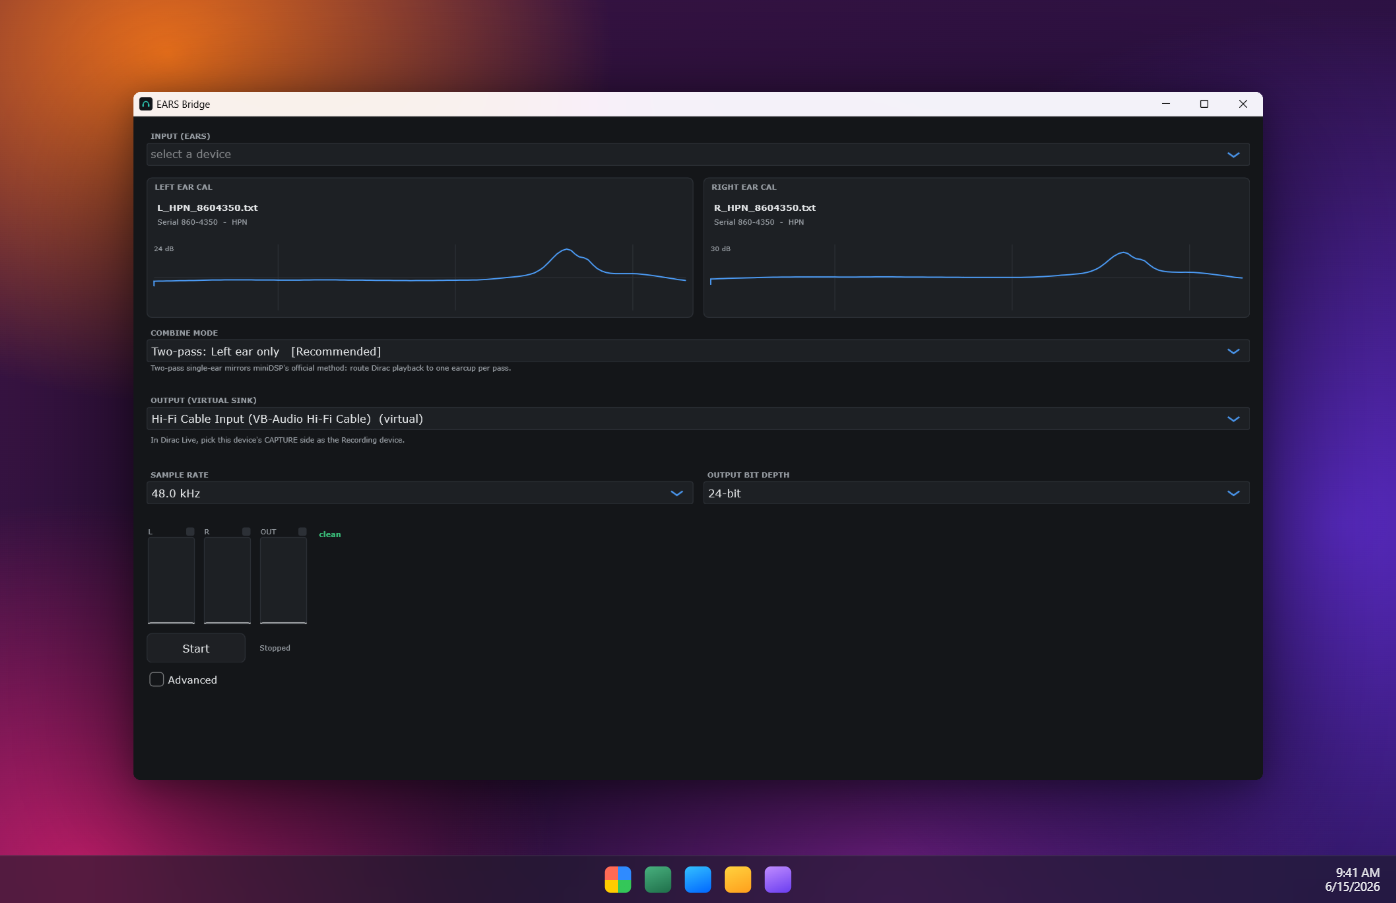
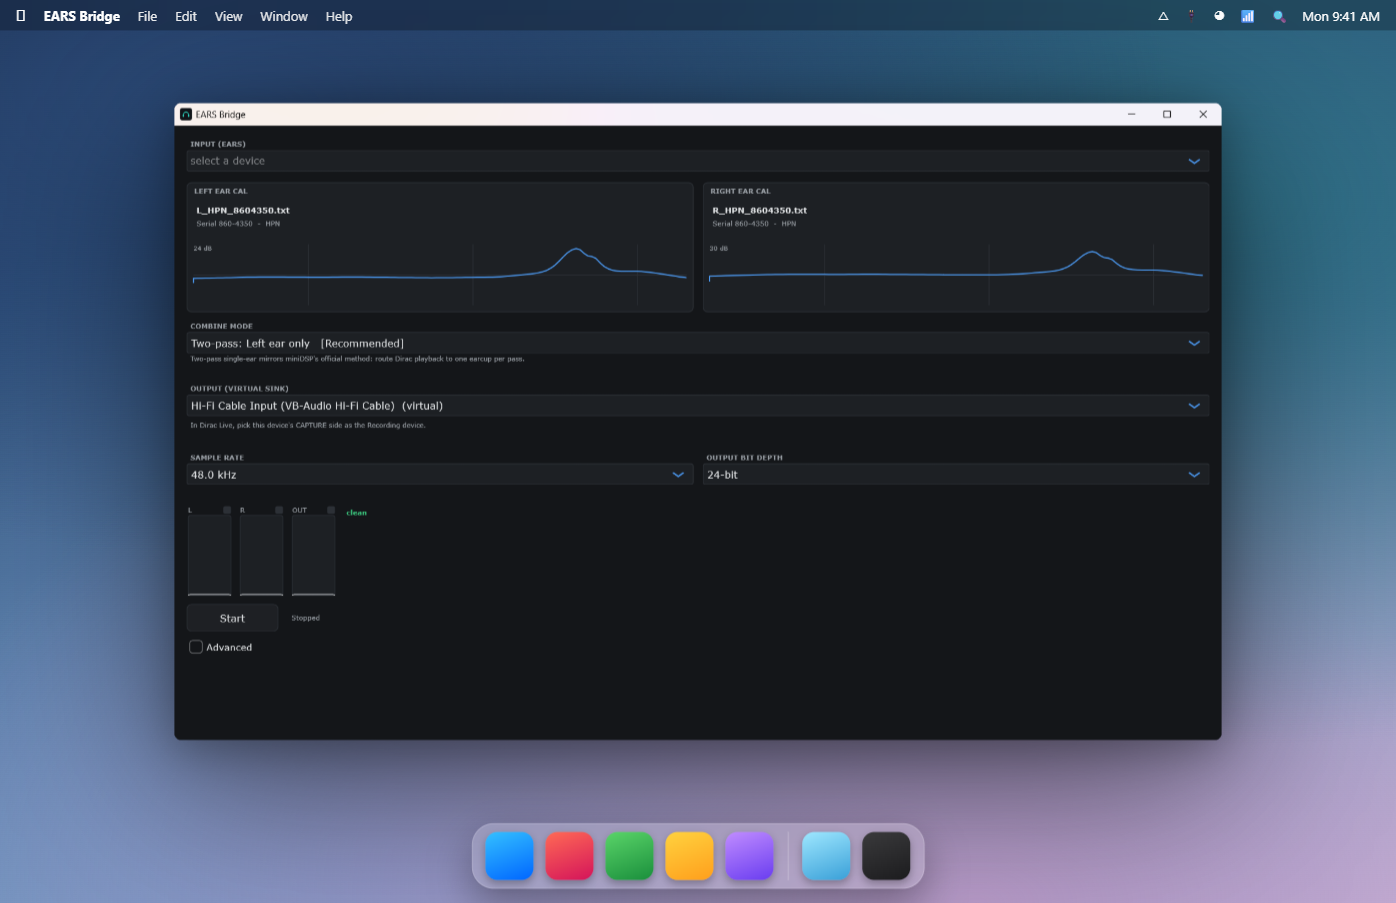
site: put both before/after windows on one shared macOS desktop
Drop the black background around the after window (cropped to the window
with rounded-corner alpha). Both scenes now share an identical macOS desktop
- same wallpaper, menu bar, and dock - so only the floating app window
changes across the wipe (original dense app -> macOS HIG redesign).

diff --git a/docs/mockups/scene-before.html b/docs/mockups/scene-before.html
@@ -2,36 +2,48 @@
 <style>
   *{ box-sizing:border-box; margin:0; padding:0; }
   html,body{ width:1396px; height:903px; overflow:hidden;
-    font-family:"Segoe UI",-apple-system,Roboto,sans-serif; }
-  /* vibrant sunset/bloom wallpaper sampled from the real Windows desktop */
+    font-family:-apple-system,"SF Pro Text","Segoe UI",system-ui,Roboto,sans-serif; }
+  /* shared macOS desktop wallpaper (identical to the after scene) */
   body{ position:relative;
     background:
-      radial-gradient(58% 70% at 12% 6%, rgba(255,122,24,.92), transparent 55%),
-      radial-gradient(60% 72% at 6% 96%, rgba(206,30,108,.88), transparent 56%),
-      radial-gradient(70% 95% at 96% 58%, rgba(96,46,214,.85), transparent 60%),
-      radial-gradient(55% 60% at 64% 96%, rgba(150,40,170,.7), transparent 58%),
-      linear-gradient(135deg,#3a1340 0%,#241046 100%); }
-  .bloom{ position:absolute; inset:0; pointer-events:none;
-    background:radial-gradient(40% 14% at 50% 42%, rgba(255,255,255,.14), transparent 72%);
-    filter:blur(3px); }
-  /* the real Windows app, floating as a window */
-  .winimg{ position:absolute; left:50%; top:92px; transform:translateX(-50%); width:1130px; height:auto;
-    filter:drop-shadow(0 34px 66px rgba(0,0,0,.52)) drop-shadow(0 6px 16px rgba(0,0,0,.4)); }
-  /* Windows 11 taskbar */
-  .taskbar{ position:absolute; left:0; right:0; bottom:0; height:48px; display:flex; align-items:center;
-    justify-content:center; gap:14px; background:rgba(28,26,42,.6);
-    -webkit-backdrop-filter:blur(22px); backdrop-filter:blur(22px); border-top:1px solid rgba(255,255,255,.08); }
-  .taskbar i{ width:26px; height:26px; border-radius:6px; display:block; }
-  .tb-start{ background:conic-gradient(from 0deg,#2f8bff,#2f8bff 90deg,#34c759 90deg,#34c759 180deg,#ffcc00 180deg,#ffcc00 270deg,#ff6a55 270deg); }
-  .tb1{ background:linear-gradient(160deg,#48b07e,#1f6f4a); } .tb2{ background:linear-gradient(160deg,#34c0ff,#0066ff); }
-  .tb3{ background:linear-gradient(160deg,#ffd23f,#ff9f1c); } .tb4{ background:linear-gradient(160deg,#c08cff,#6a3df0); }
-  .taskbar .clock{ position:absolute; right:16px; color:#ececf0; font-size:12px; text-align:right; line-height:1.25; }
+      radial-gradient(120% 90% at 18% 12%, #2b4a78 0%, transparent 55%),
+      radial-gradient(120% 110% at 88% 22%, #2f6f86 0%, transparent 55%),
+      radial-gradient(130% 120% at 70% 100%, #b89bc9 0%, transparent 60%),
+      radial-gradient(120% 120% at 30% 95%, #6f8fc2 0%, transparent 60%),
+      linear-gradient(165deg,#16243f 0%,#27466e 22%,#395f86 45%,#7fa6c4 78%,#cdbcd8 100%);
+    background-color:#27466e; }
+  .menubar{ position:absolute; top:0; left:0; right:0; height:30px; display:flex; align-items:center;
+    gap:18px; padding:0 16px; color:#fff; font-size:13px; font-weight:500;
+    background:rgba(0,0,0,.26); -webkit-backdrop-filter:blur(18px); backdrop-filter:blur(18px); }
+  .menubar .apple{ font-size:15px; }
+  .menubar .app{ font-weight:700; }
+  .menubar .mi{ font-weight:400; opacity:.92; }
+  .menubar .right{ margin-left:auto; display:flex; align-items:center; gap:14px; font-weight:400; }
+  .menubar .right .clock{ font-variant-numeric:tabular-nums; }
+  .stage{ position:absolute; left:0; right:0; top:30px; bottom:90px; display:flex; align-items:center; justify-content:center; }
+  .stage img{ display:block; max-width:75%; max-height:87%; width:auto; height:auto;
+    filter:drop-shadow(0 38px 80px rgba(0,0,0,.46)) drop-shadow(0 8px 22px rgba(0,0,0,.34)); }
+  .dock{ position:absolute; left:50%; bottom:14px; transform:translateX(-50%);
+    display:flex; align-items:flex-end; gap:12px; padding:9px 14px; border-radius:22px;
+    background:rgba(255,255,255,.18); -webkit-backdrop-filter:blur(26px); backdrop-filter:blur(26px);
+    box-shadow:0 16px 40px rgba(0,0,0,.34), inset 0 0 0 1px rgba(255,255,255,.16); }
+  .dock i{ width:48px; height:48px; border-radius:12px; display:block; box-shadow:0 4px 8px rgba(0,0,0,.28); }
+  .dock .sep{ width:1px; height:48px; background:rgba(255,255,255,.3); box-shadow:none; border-radius:0; margin:0 2px; }
+  .i1{ background:linear-gradient(160deg,#34c0ff,#0066ff); } .i2{ background:linear-gradient(160deg,#ff6a55,#d4145a); }
+  .i3{ background:linear-gradient(160deg,#5ad469,#1a8f3c); } .i4{ background:linear-gradient(160deg,#ffd23f,#ff9f1c); }
+  .i5{ background:linear-gradient(160deg,#c08cff,#6a3df0); } .i6{ background:linear-gradient(160deg,#3a3a3c,#1c1c1e); }
+  .i7{ background:linear-gradient(160deg,#9ee7ff,#3aa0d8); }
 </style></head>
 <body>
-  <div class="bloom"></div>
-  <img class="winimg" src="before-window.png" alt="EARS Bridge — the original Windows app">
-  <div class="taskbar">
-    <i class="tb-start"></i><i class="tb1"></i><i class="tb2"></i><i class="tb3"></i><i class="tb4"></i>
-    <span class="clock">9:41 AM<br>6/15/2026</span>
+  <div class="menubar">
+    <span class="apple">&#63743;</span>
+    <span class="app">EARS Bridge</span>
+    <span class="mi">File</span><span class="mi">Edit</span><span class="mi">View</span><span class="mi">Window</span><span class="mi">Help</span>
+    <span class="right"><span>&#9651;</span><span>&#128268;</span><span>&#9685;</span><span>&#128246;</span><span>&#128269;</span><span class="clock">Mon&nbsp;9:41&nbsp;AM</span></span>
+  </div>
+  <div class="stage"><img src="before-window.png" alt="EARS Bridge — the original Windows app, dense and low-contrast"></div>
+  <div class="dock">
+    <i class="i1"></i><i class="i2"></i><i class="i3"></i><i class="i4"></i><i class="i5"></i>
+    <span class="sep"></span><i class="i7"></i><i class="i6"></i>
   </div>
 </body></html>

diff --git a/docs/mockups/scene-after.html b/docs/mockups/scene-after.html
@@ -3,6 +3,7 @@
   *{ box-sizing:border-box; margin:0; padding:0; }
   html,body{ width:1396px; height:903px; overflow:hidden;
     font-family:-apple-system,"SF Pro Text","Segoe UI",system-ui,Roboto,sans-serif; }
+  /* shared macOS desktop wallpaper */
   body{ position:relative;
     background:
       radial-gradient(120% 90% at 18% 12%, #2b4a78 0%, transparent 55%),
@@ -11,7 +12,7 @@
       radial-gradient(120% 120% at 30% 95%, #6f8fc2 0%, transparent 60%),
       linear-gradient(165deg,#16243f 0%,#27466e 22%,#395f86 45%,#7fa6c4 78%,#cdbcd8 100%);
     background-color:#27466e; }
-  /* menu bar — center kept clear so the device notch can straddle it */
+  /* macOS menu bar — center kept clear so the device notch can straddle it */
   .menubar{ position:absolute; top:0; left:0; right:0; height:30px; display:flex; align-items:center;
     gap:18px; padding:0 16px; color:#fff; font-size:13px; font-weight:500;
     background:rgba(0,0,0,.26); -webkit-backdrop-filter:blur(18px); backdrop-filter:blur(18px); }
@@ -20,25 +21,20 @@
   .menubar .mi{ font-weight:400; opacity:.92; }
   .menubar .right{ margin-left:auto; display:flex; align-items:center; gap:14px; font-weight:400; }
   .menubar .right .clock{ font-variant-numeric:tabular-nums; }
-  /* floating app window = the redesigned macOS app */
-  .winframe{ position:absolute; left:50%; top:96px; transform:translateX(-50%);
-    border-radius:13px; box-shadow:0 38px 80px rgba(0,0,0,.46), 0 8px 22px rgba(0,0,0,.34);
-    overflow:hidden; }
-  .winframe img{ display:block; height:686px; width:auto; }
-  /* dock */
+  /* the floating app window, centered between menu bar and dock */
+  .stage{ position:absolute; left:0; right:0; top:30px; bottom:90px; display:flex; align-items:center; justify-content:center; }
+  .stage img{ display:block; max-width:75%; max-height:87%; width:auto; height:auto;
+    filter:drop-shadow(0 38px 80px rgba(0,0,0,.46)) drop-shadow(0 8px 22px rgba(0,0,0,.34)); }
+  /* macOS dock */
   .dock{ position:absolute; left:50%; bottom:14px; transform:translateX(-50%);
     display:flex; align-items:flex-end; gap:12px; padding:9px 14px; border-radius:22px;
     background:rgba(255,255,255,.18); -webkit-backdrop-filter:blur(26px); backdrop-filter:blur(26px);
     box-shadow:0 16px 40px rgba(0,0,0,.34), inset 0 0 0 1px rgba(255,255,255,.16); }
-  .dock i{ width:48px; height:48px; border-radius:12px; display:block;
-    box-shadow:0 4px 8px rgba(0,0,0,.28); }
+  .dock i{ width:48px; height:48px; border-radius:12px; display:block; box-shadow:0 4px 8px rgba(0,0,0,.28); }
   .dock .sep{ width:1px; height:48px; background:rgba(255,255,255,.3); box-shadow:none; border-radius:0; margin:0 2px; }
-  .i1{ background:linear-gradient(160deg,#34c0ff,#0066ff); }
-  .i2{ background:linear-gradient(160deg,#ff6a55,#d4145a); }
-  .i3{ background:linear-gradient(160deg,#5ad469,#1a8f3c); }
-  .i4{ background:linear-gradient(160deg,#ffd23f,#ff9f1c); }
-  .i5{ background:linear-gradient(160deg,#c08cff,#6a3df0); }
-  .i6{ background:linear-gradient(160deg,#3a3a3c,#1c1c1e); }
+  .i1{ background:linear-gradient(160deg,#34c0ff,#0066ff); } .i2{ background:linear-gradient(160deg,#ff6a55,#d4145a); }
+  .i3{ background:linear-gradient(160deg,#5ad469,#1a8f3c); } .i4{ background:linear-gradient(160deg,#ffd23f,#ff9f1c); }
+  .i5{ background:linear-gradient(160deg,#c08cff,#6a3df0); } .i6{ background:linear-gradient(160deg,#3a3a3c,#1c1c1e); }
   .i7{ background:linear-gradient(160deg,#9ee7ff,#3aa0d8); }
 </style></head>
 <body>
@@ -48,7 +44,7 @@
     <span class="mi">File</span><span class="mi">Edit</span><span class="mi">View</span><span class="mi">Window</span><span class="mi">Help</span>
     <span class="right"><span>&#9651;</span><span>&#128268;</span><span>&#9685;</span><span>&#128246;</span><span>&#128269;</span><span class="clock">Mon&nbsp;9:41&nbsp;AM</span></span>
   </div>
-  <div class="winframe"><img src="afterfixed.png" alt="EARS Bridge redesigned to Apple's macOS HIG"></div>
+  <div class="stage"><img src="after-window.png" alt="EARS Bridge redesigned to Apple's macOS HIG"></div>
   <div class="dock">
     <i class="i1"></i><i class="i2"></i><i class="i3"></i><i class="i4"></i><i class="i5"></i>
     <span class="sep"></span><i class="i7"></i><i class="i6"></i>

diff --git a/docs/index.html b/docs/index.html
@@ -159,8 +159,8 @@
   <figure class="shot">
     <div class="macshot">
       <div class="ba" style="--pos:50%">
-        <img class="ba-base" src="screen-after.png?v=3" alt="EARS Bridge redesigned to Apple's macOS HIG, running as a window on a Mac desktop: a config rail, calibration cards, a Start gated until ready, and labeled level meters.">
-        <img class="ba-top" src="screen-before.png?v=4" alt="EARS Bridge before: the original Windows app floating on a Windows desktop — dense layout, low-contrast labels, no device selected.">
+        <img class="ba-base" src="screen-after.png?v=5" alt="EARS Bridge redesigned to Apple's macOS HIG, running as a window on a Mac desktop: a config rail, calibration cards, a Start gated until ready, and labeled level meters.">
+        <img class="ba-top" src="screen-before.png?v=5" alt="EARS Bridge before: the original dense, low-contrast app as a window on the same Mac desktop.">
         <span class="ba-tag ba-tagB">Before</span>
         <span class="ba-tag ba-tagA">After</span>
         <div class="ba-line"><div class="ba-grip">⟺</div></div>